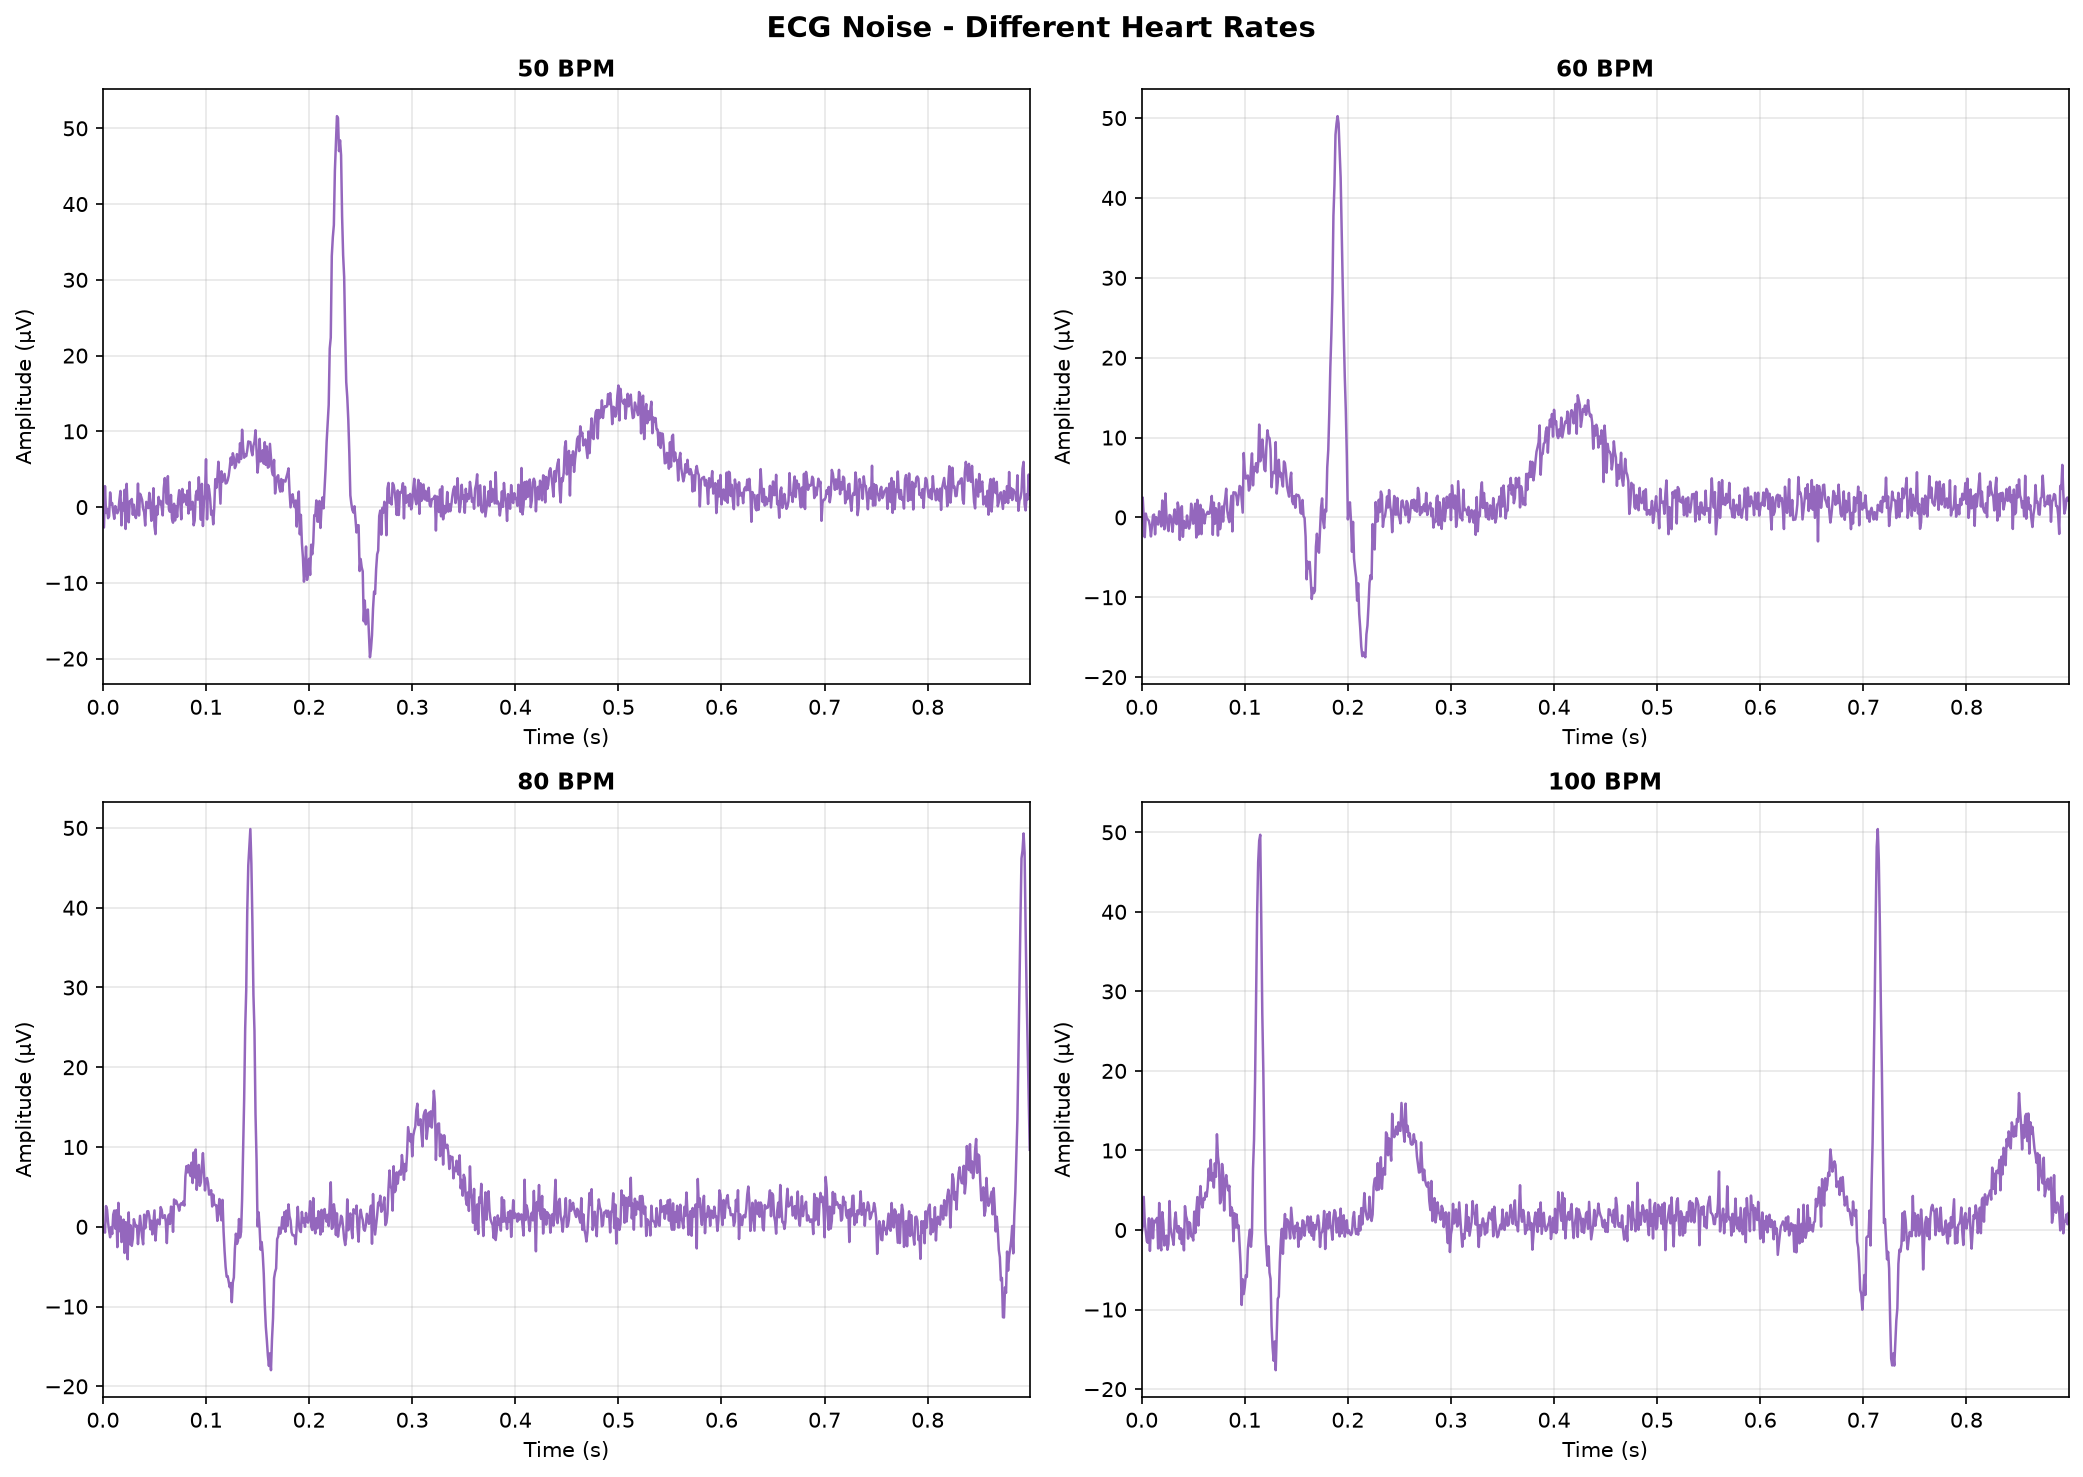
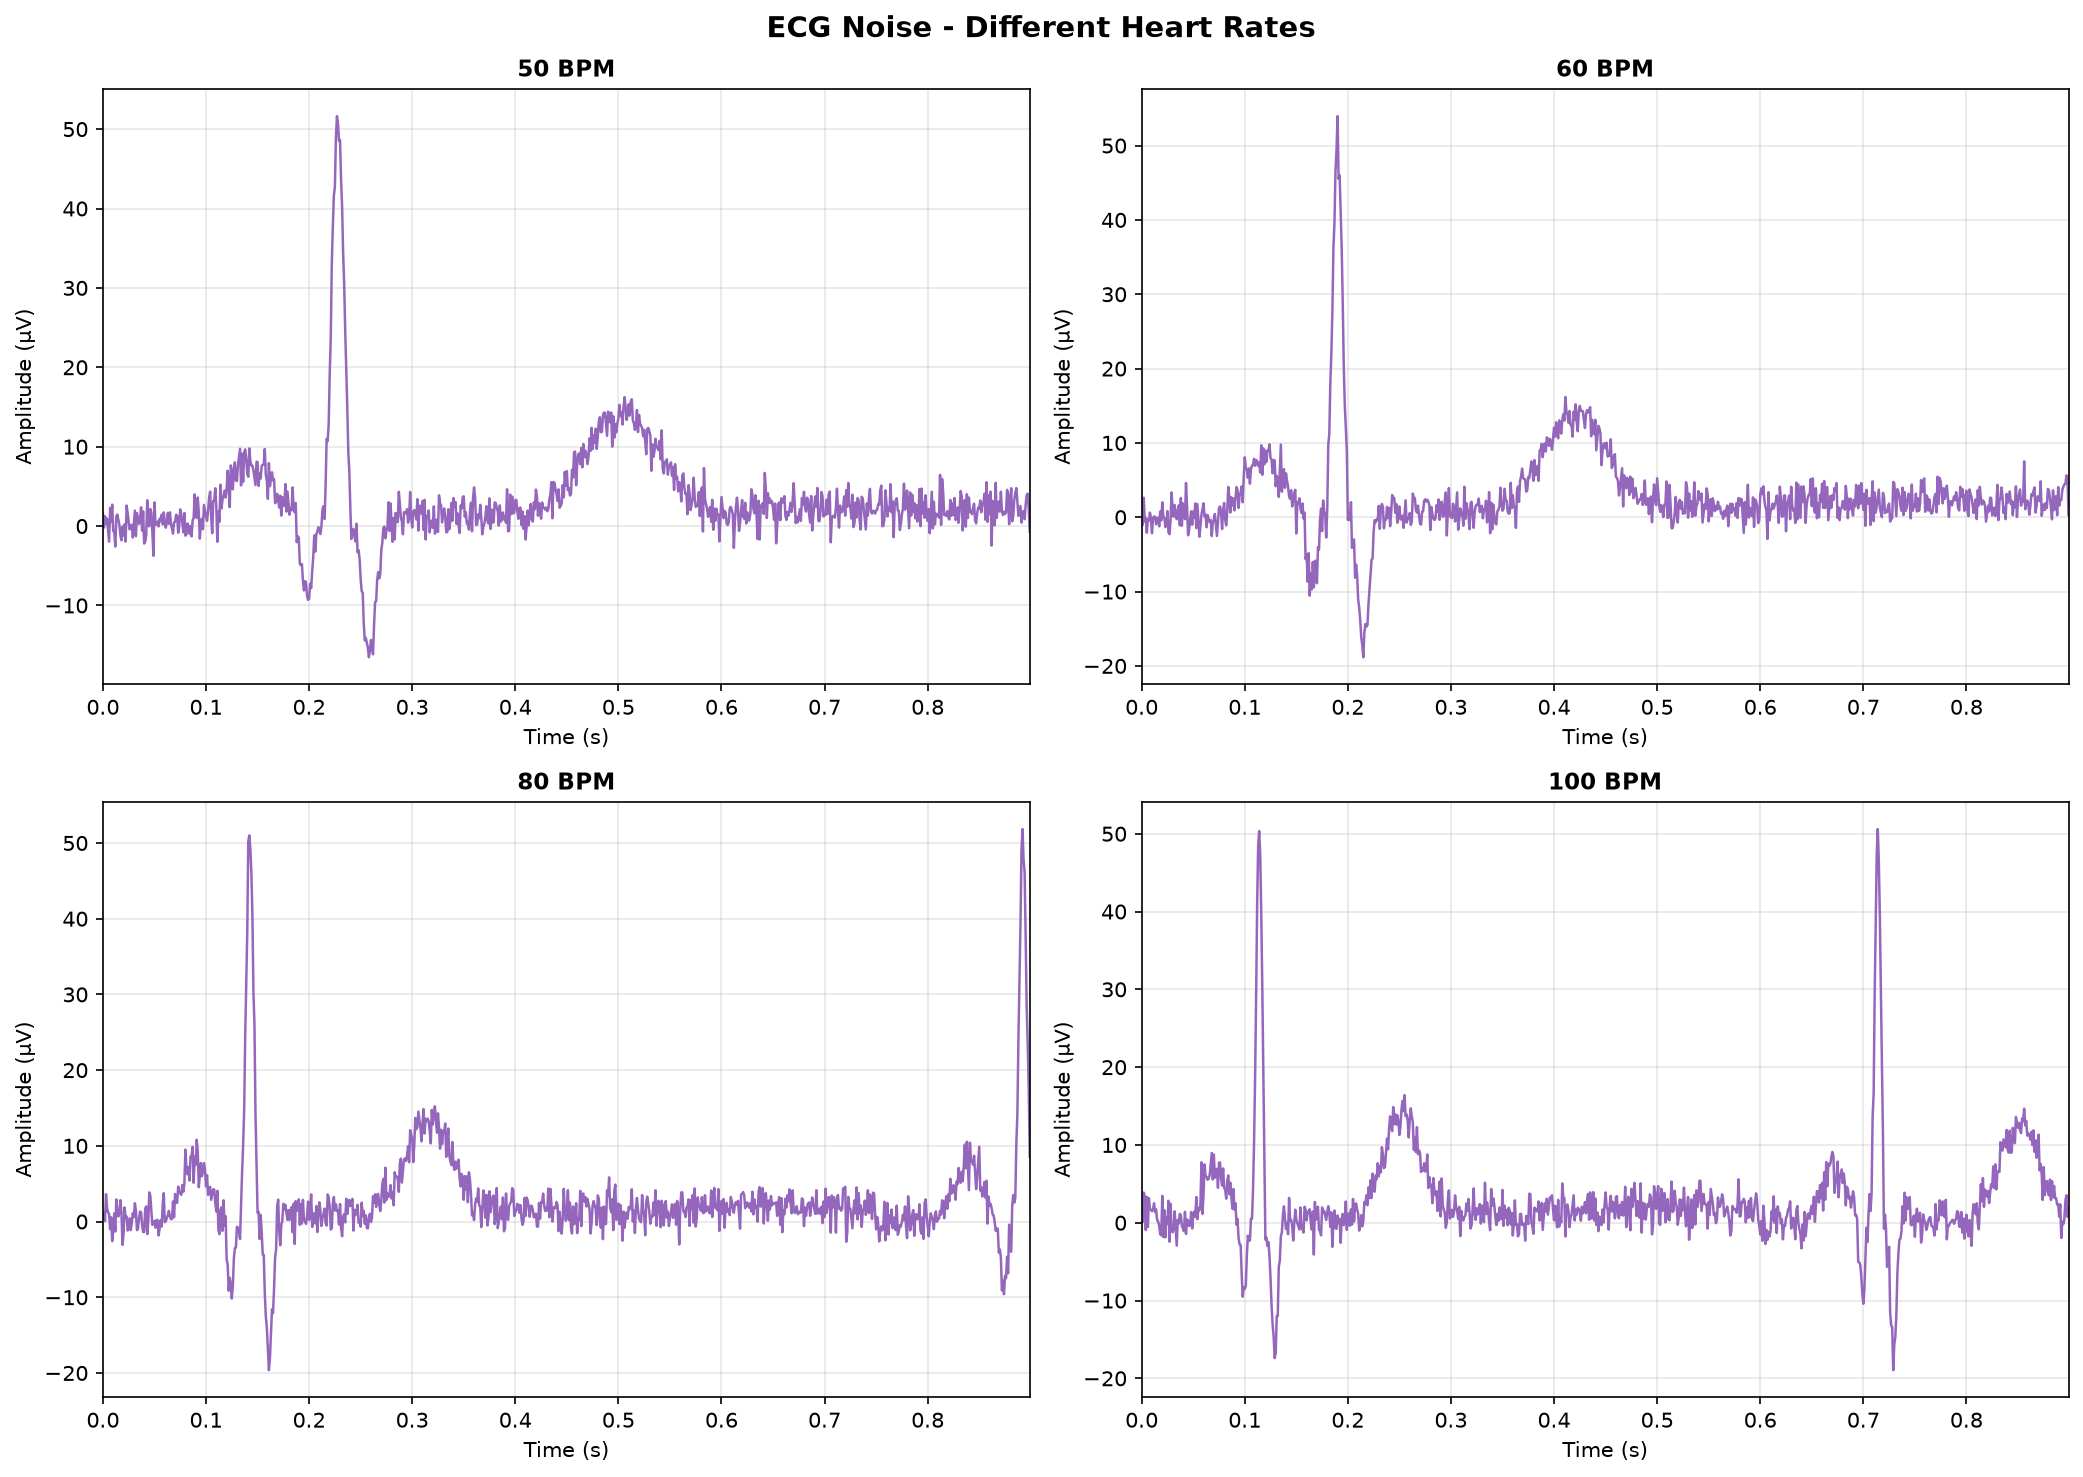
去除无用内容

diff --git a/eeg_simulator/ui/panels/source_config_page.py b/eeg_simulator/ui/panels/source_config_page.py
@@ -7,7 +7,6 @@ from PyQt6.QtWidgets import (
     QApplication,
     QComboBox,
     QDoubleSpinBox,
-    QFrame,
     QGroupBox,
     QHBoxLayout,
     QLabel,
@@ -91,8 +90,10 @@ class SourceConfigPage(NavigationPage):
         src_layout.addWidget(self.src_info_label)
         layout.addWidget(self.mne_group)
 
-        self.montage_group = QGroupBox(tr('panel_electrode_montage'))
-        montage_layout = QVBoxLayout(self.montage_group)
+        self.forward_group = QGroupBox(tr('panel_forward_model'))
+        forward_layout = QVBoxLayout(self.forward_group)
+        self.montage_group = self.forward_group
+        self.fwd_group = self.forward_group
 
         montage_row = QHBoxLayout()
         self.montage_label = QLabel(tr('label_electrode_layout'))
@@ -102,38 +103,19 @@ class SourceConfigPage(NavigationPage):
         self._populate_montage_combo()
         self.montage_combo.currentIndexChanged.connect(self._on_montage_combo_changed)
         montage_row.addWidget(self.montage_combo, 1)
-        montage_layout.addLayout(montage_row)
-
-        self.montage_hint_label = QLabel(tr('montage_select_hint'))
-        self.montage_hint_label.setWordWrap(True)
-        self.montage_hint_label.setStyleSheet(f"color: {get_color('text_muted')}; font-size: 12px;")
-        montage_layout.addWidget(self.montage_hint_label)
-        layout.addWidget(self.montage_group)
-
-        self.fwd_group = QGroupBox(tr('panel_forward_model'))
-        fwd_layout = QVBoxLayout(self.fwd_group)
-
-        self.fwd_workflow_frame = QFrame()
-        self.fwd_workflow_frame.setStyleSheet(self._hint_frame_style())
-        fwd_workflow_inner = QVBoxLayout(self.fwd_workflow_frame)
-        fwd_workflow_inner.setContentsMargins(12, 10, 12, 10)
-        self.fwd_workflow_label = QLabel(tr('fwd_workflow_hint'))
-        self.fwd_workflow_label.setWordWrap(True)
-        self.fwd_workflow_label.setStyleSheet(f"color: {get_color('blue')}; font-size: 12px;")
-        fwd_workflow_inner.addWidget(self.fwd_workflow_label)
-        fwd_layout.addWidget(self.fwd_workflow_frame)
+        forward_layout.addLayout(montage_row)
 
         self.compute_fwd_btn = QPushButton(tr('btn_compute_forward'))
         self.compute_fwd_btn.setStyleSheet(get_primary_btn_style())
         self.compute_fwd_btn.setToolTip(tr('tooltip_compute_forward'))
         self.compute_fwd_btn.clicked.connect(self._on_compute_forward)
-        fwd_layout.addWidget(self.compute_fwd_btn)
+        forward_layout.addWidget(self.compute_fwd_btn)
 
         self.fwd_info_label = QLabel(tr('fwd_not_loaded'))
         self.fwd_info_label.setStyleSheet(f"color: {get_color('text_muted')}; font-size: 12px;")
         self.fwd_info_label.setWordWrap(True)
-        fwd_layout.addWidget(self.fwd_info_label)
-        layout.addWidget(self.fwd_group)
+        forward_layout.addWidget(self.fwd_info_label)
+        layout.addWidget(self.forward_group)
 
         self.bem_group = QGroupBox(tr('bem_conductivity'))
         bem_layout = QVBoxLayout(self.bem_group)
@@ -174,14 +156,6 @@ class SourceConfigPage(NavigationPage):
         bem_layout.addWidget(self.make_bem_btn)
         layout.addWidget(self.bem_group)
         layout.addStretch()
-
-    @staticmethod
-    def _hint_frame_style():
-        return f"""
-            background-color: {get_color('bg_input')};
-            border-radius: 8px;
-            border: 1px solid {get_color('border')};
-        """
 
     def _populate_src_combo(self):
         src_options = [
@@ -402,7 +376,7 @@ class SourceConfigPage(NavigationPage):
 
     def update_theme(self):
         super().update_theme()
-        for group in [self.mne_group, self.montage_group, self.fwd_group, self.bem_group]:
+        for group in [self.mne_group, self.forward_group, self.bem_group]:
             group.setStyleSheet(f"""
                 QGroupBox {{
                     background-color: {get_color('bg_card')};
@@ -422,8 +396,6 @@ class SourceConfigPage(NavigationPage):
             self.src_info_label.setStyleSheet(f"color: {get_color('accent')}; font-size: 12px;")
         else:
             self.src_info_label.setStyleSheet(f"color: {get_color('text_muted')}; font-size: 12px;")
-        self.fwd_workflow_frame.setStyleSheet(self._hint_frame_style())
-        self.fwd_workflow_label.setStyleSheet(f"color: {get_color('blue')}; font-size: 12px;")
         self.update_forward_status()
 
     def update_texts(self):
@@ -431,13 +403,11 @@ class SourceConfigPage(NavigationPage):
         self.set_subtitle(tr('nav_source_config_subtitle'))
 
         self.mne_group.setTitle(tr('panel_source_space'))
-        self.montage_group.setTitle(tr('panel_electrode_montage'))
-        self.fwd_group.setTitle(tr('panel_forward_model'))
+        self.forward_group.setTitle(tr('panel_forward_model'))
         self.bem_group.setTitle(tr('bem_conductivity'))
 
         self.montage_label.setText(tr('label_electrode_layout'))
         self.montage_combo.setToolTip(tr('tooltip_select_montage'))
-        self.montage_hint_label.setText(tr('montage_select_hint'))
         self._populate_montage_combo()
 
         self.brain_cond_label.setText(f"{tr('bem_conductivity_brain')} (S/m):")
@@ -446,7 +416,6 @@ class SourceConfigPage(NavigationPage):
 
         self.sample_btn.setText(tr('btn_load_sample'))
         self.sample_btn.setToolTip(tr('tooltip_load_sample'))
-        self.fwd_workflow_label.setText(tr('fwd_workflow_hint'))
         self.compute_fwd_btn.setText(tr('btn_compute_forward'))
         self.compute_fwd_btn.setToolTip(tr('tooltip_compute_forward'))
         self.make_bem_btn.setText(tr('bem_make_model'))

diff --git a/eeg_simulator/utils/i18n.py b/eeg_simulator/utils/i18n.py
@@ -89,13 +89,13 @@ class Translator(QObject):
             'msg_fwd_not_ica': '「{}」是 ICA 文件，不是前向模型。\n\n请选择 *-fwd.fif 文件。',
             'msg_fwd_not_raw': '「{}」是原始数据文件，不是前向模型。\n\n请选择 *-fwd.fif 文件。',
 
-            'fwd_workflow_hint': '推荐顺序：① 加载源空间 → ② 选择 Montage → ③ 生成前向模型 → ④ 电极页选通道 → ⑤ 配置 Patch 并仿真',
+            'fwd_workflow_hint': '',
             'btn_compute_forward': '根据当前 Montage 生成前向模型',
             'tooltip_compute_forward': '使用当前电极 montage、已加载源空间与 Sample BEM 计算 *-fwd.fif（约需数秒至数十秒）',
             'msg_select_montage_first': '请先在上方选择电极 Montage（如 standard_1005）',
             'panel_electrode_montage': '电极 Montage',
             'tooltip_select_montage': '选择电极命名与布局体系；生成前向模型前需先确定 Montage',
-            'montage_select_hint': 'Montage 决定前向模型中的传感器位置。10-10 精确定位请选 standard_1005，再点击「生成前向模型」。',
+            'montage_select_hint': '',
             'msg_computing_forward': '正在计算前向模型，请稍候…',
             'msg_fwd_computed': '前向模型已生成并加载:\n{}\nMontage: {}\n{} 个 EEG 通道',
             'msg_fwd_compute_failed': '前向模型计算失败:\n{}',
@@ -638,13 +638,13 @@ class Translator(QObject):
             'msg_fwd_not_ica': '"{}" is an ICA file, not a forward model.\n\nSelect a *-fwd.fif file.',
             'msg_fwd_not_raw': '"{}" is a raw data file, not a forward model.\n\nSelect a *-fwd.fif file.',
 
-            'fwd_workflow_hint': 'Recommended: ① Load source space → ② Select montage → ③ Generate forward → ④ Select channels on Electrodes page → ⑤ Configure patches & simulate',
+            'fwd_workflow_hint': '',
             'btn_compute_forward': 'Generate Forward from Current Montage',
             'tooltip_compute_forward': 'Compute *-fwd.fif from current montage, loaded source space, and Sample BEM (may take seconds)',
             'msg_select_montage_first': 'Please select an electrode montage above first (e.g. standard_1005)',
             'panel_electrode_montage': 'Electrode Montage',
             'tooltip_select_montage': 'Electrode naming/layout system; choose before generating forward model',
-            'montage_select_hint': 'Montage defines sensor positions in the forward model. For 10-10, pick standard_1005, then Generate Forward.',
+            'montage_select_hint': '',
             'msg_computing_forward': 'Computing forward model, please wait…',
             'msg_fwd_computed': 'Forward model generated and loaded:\n{}\nMontage: {}\n{} EEG channels',
             'msg_fwd_compute_failed': 'Forward model computation failed:\n{}',